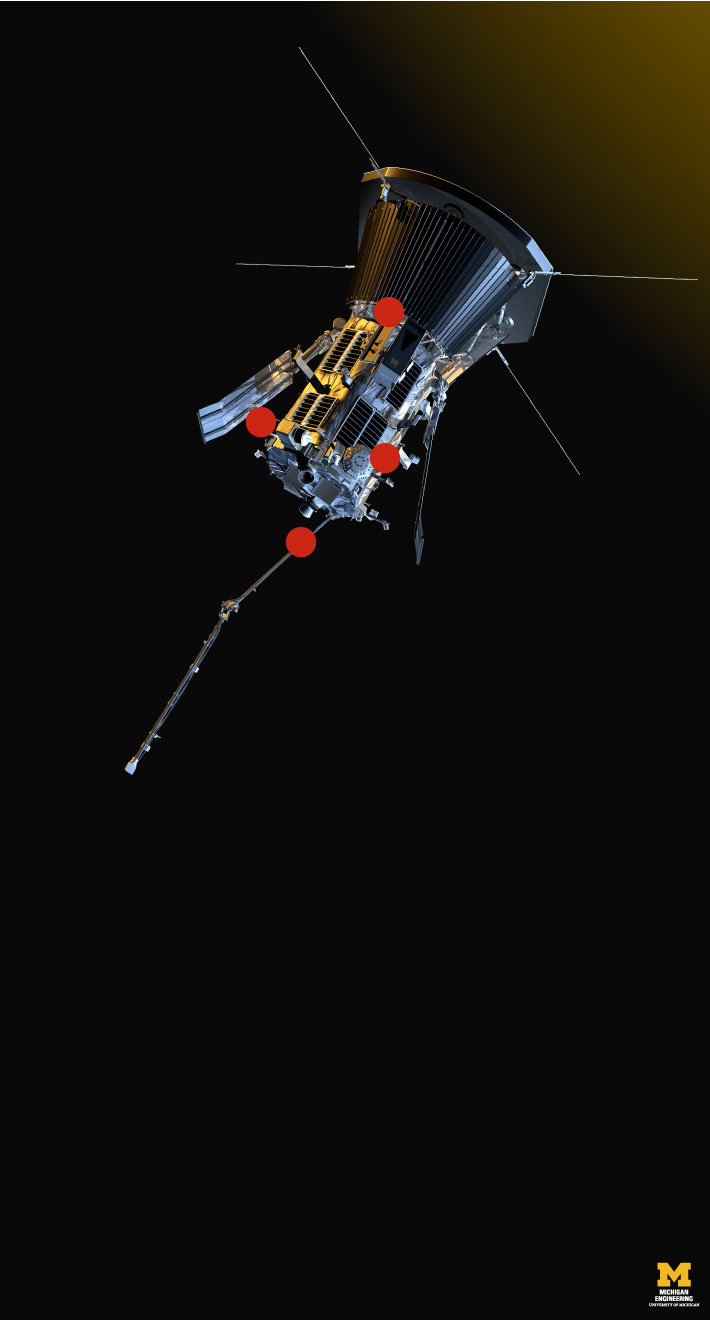
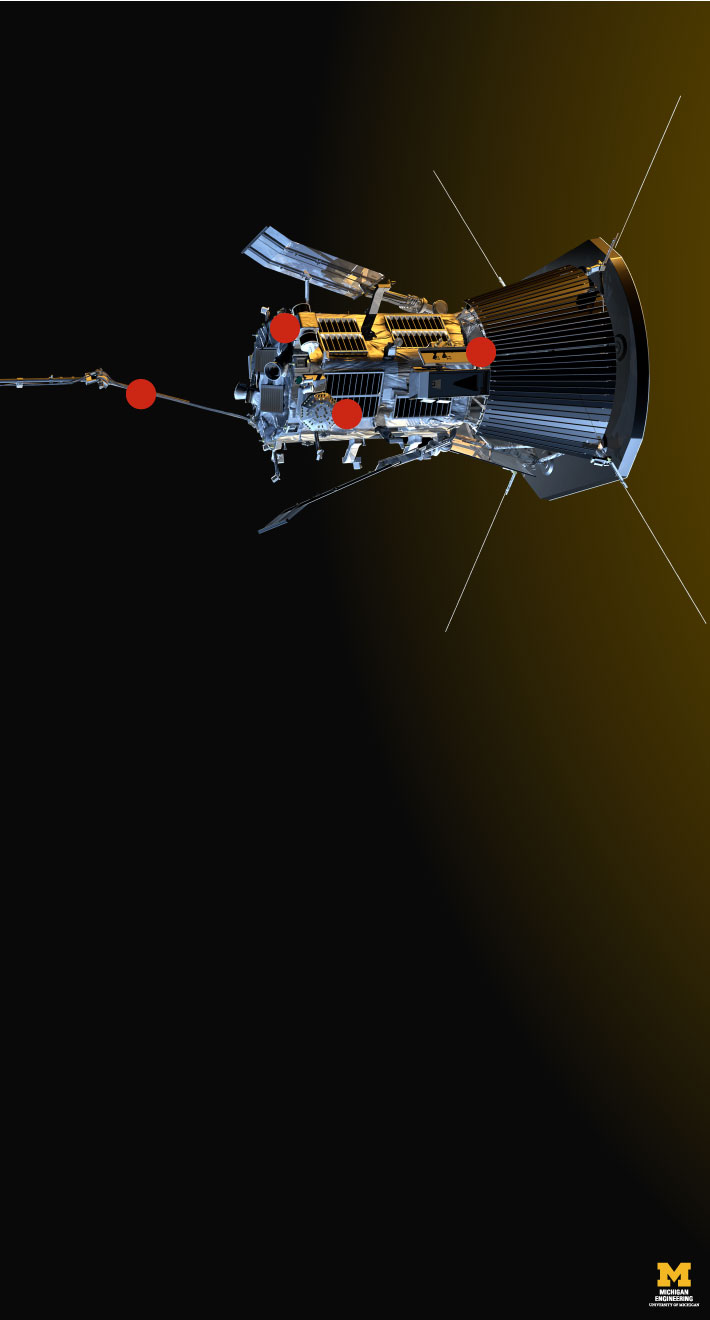
move gradient on version 2

diff --git a/ai2html/parker-probe/ai2html-output_psp-01-v2/index.html b/ai2html/parker-probe/ai2html-output_psp-01-v2/index.html
@@ -20,7 +20,7 @@ p {
 </head>
 <body>
 <div id="coe-psp-01-v2-box" class="ai2html">
-	<!-- Generated by ai2html v0.65.1-coe-customized-v2 - 2018-03-21 - 10:30 -->
+	<!-- Generated by ai2html v0.65.1-coe-customized-v2 - 2018-03-21 - 10:37 -->
 	<!-- ai file: psp-01-v2.ai -->
 
 	<style type='text/css' media='screen,print'>
@@ -276,7 +276,7 @@ p {
 			<p>Cataloging the energetic electrons, protons and heavy ions that are accelerated in the atmosphere as well as the inner heliosphere. Handled by the Energetic Particle Instrument &ndash; it&rsquo;s made up of one double-ended high-energy telescope and a pair of low-energy telescopes.</p>
 		</div>
 		<div id="coe-ai2-6" class="coe-shadow coe-aiAbs" style="top:68.5%;left:14.6368%;width:28.4553%;">
-			<p class="coe-pstyle1">FIELDS Experiment</p>
+			<p class="coe-pstyle1">FIELDS Experivment</p>
 			<p>Measuring the strength of the magnetic and electric fields in the corona with voltage sensors and magnetometers. It will also gauge the absolute plasma density and electron temperatures.</p>
 		</div>
 	</div>
@@ -332,17 +332,17 @@ p {
 			<p class="coe-pstyle0">Parker's Toolbox</p>
 			<p class="coe-pstyle1">Sampling the sun&rsquo;s atmosphere requires NASA to pack the Parker Solar Probe with a variety of sensing and optical equipment. The gear is aimed at providing answers in four different areas of scientific inquiry.</p>
 		</div>
-		<div id="coe-ai3-2" class="coe-shadow coe-aiAbs coe-aiPointText" style="top:23.6855%;margin-top:-9.3px;left:54.5808%;margin-left:-0.8451%;width:8px;">
-			<p class="coe-pstyle2">1</p>
-		</div>
-		<div id="coe-ai3-3" class="coe-shadow coe-aiAbs coe-aiPointText" style="top:32.0189%;margin-top:-9.3px;left:36.557%;margin-left:-0.8451%;width:8px;">
+		<div id="coe-ai3-2" class="coe-shadow coe-aiAbs coe-aiPointText" style="top:24.8976%;margin-top:-9.3px;left:39.9373%;margin-left:-0.8451%;width:8px;">
 			<p class="coe-pstyle2">2</p>
 		</div>
-		<div id="coe-ai3-4" class="coe-shadow coe-aiAbs coe-aiPointText" style="top:34.8976%;margin-top:-9.3px;left:54.3035%;margin-left:-0.8451%;width:8px;">
-			<p class="coe-pstyle2">3</p>
+		<div id="coe-ai3-3" class="coe-shadow coe-aiAbs coe-aiPointText" style="top:26.7158%;margin-top:-9.3px;left:67.5385%;margin-left:-0.8451%;width:8px;">
+			<p class="coe-pstyle2">1</p>
 		</div>
-		<div id="coe-ai3-5" class="coe-shadow coe-aiAbs coe-aiPointText" style="top:41.1098%;margin-top:-9.3px;left:42.1908%;margin-left:-0.8451%;width:8px;">
+		<div id="coe-ai3-4" class="coe-shadow coe-aiAbs coe-aiPointText" style="top:29.8976%;margin-top:-9.3px;left:19.6556%;margin-left:-0.8451%;width:8px;">
 			<p class="coe-pstyle2">4</p>
+		</div>
+		<div id="coe-ai3-5" class="coe-shadow coe-aiAbs coe-aiPointText" style="top:31.5643%;margin-top:-9.3px;left:48.9514%;margin-left:-0.8451%;width:8px;">
+			<p class="coe-pstyle2">3</p>
 		</div>
 		<div id="coe-ai3-6" class="coe-shadow coe-aiAbs" style="top:43.4848%;left:2.8169%;width:94.9296%;">
 			<p class="coe-pstyle3">1. Wide-field Imager for Solar Probe (WISPR)</p>
@@ -360,7 +360,7 @@ p {
 			<p>&nbsp;</p>
 		</div>
 	</div>
-	<!-- End ai2html - 2018-03-21 - 10:30 -->
+	<!-- End ai2html - 2018-03-21 - 10:37 -->
 </div>
 <p class='credit'>Infographic: Michigan Engineering</p>
 <script src='https://cdnjs.cloudflare.com/ajax/libs/iframe-resizer/3.5.16/iframeResizer.contentWindow.min.js'></script>
